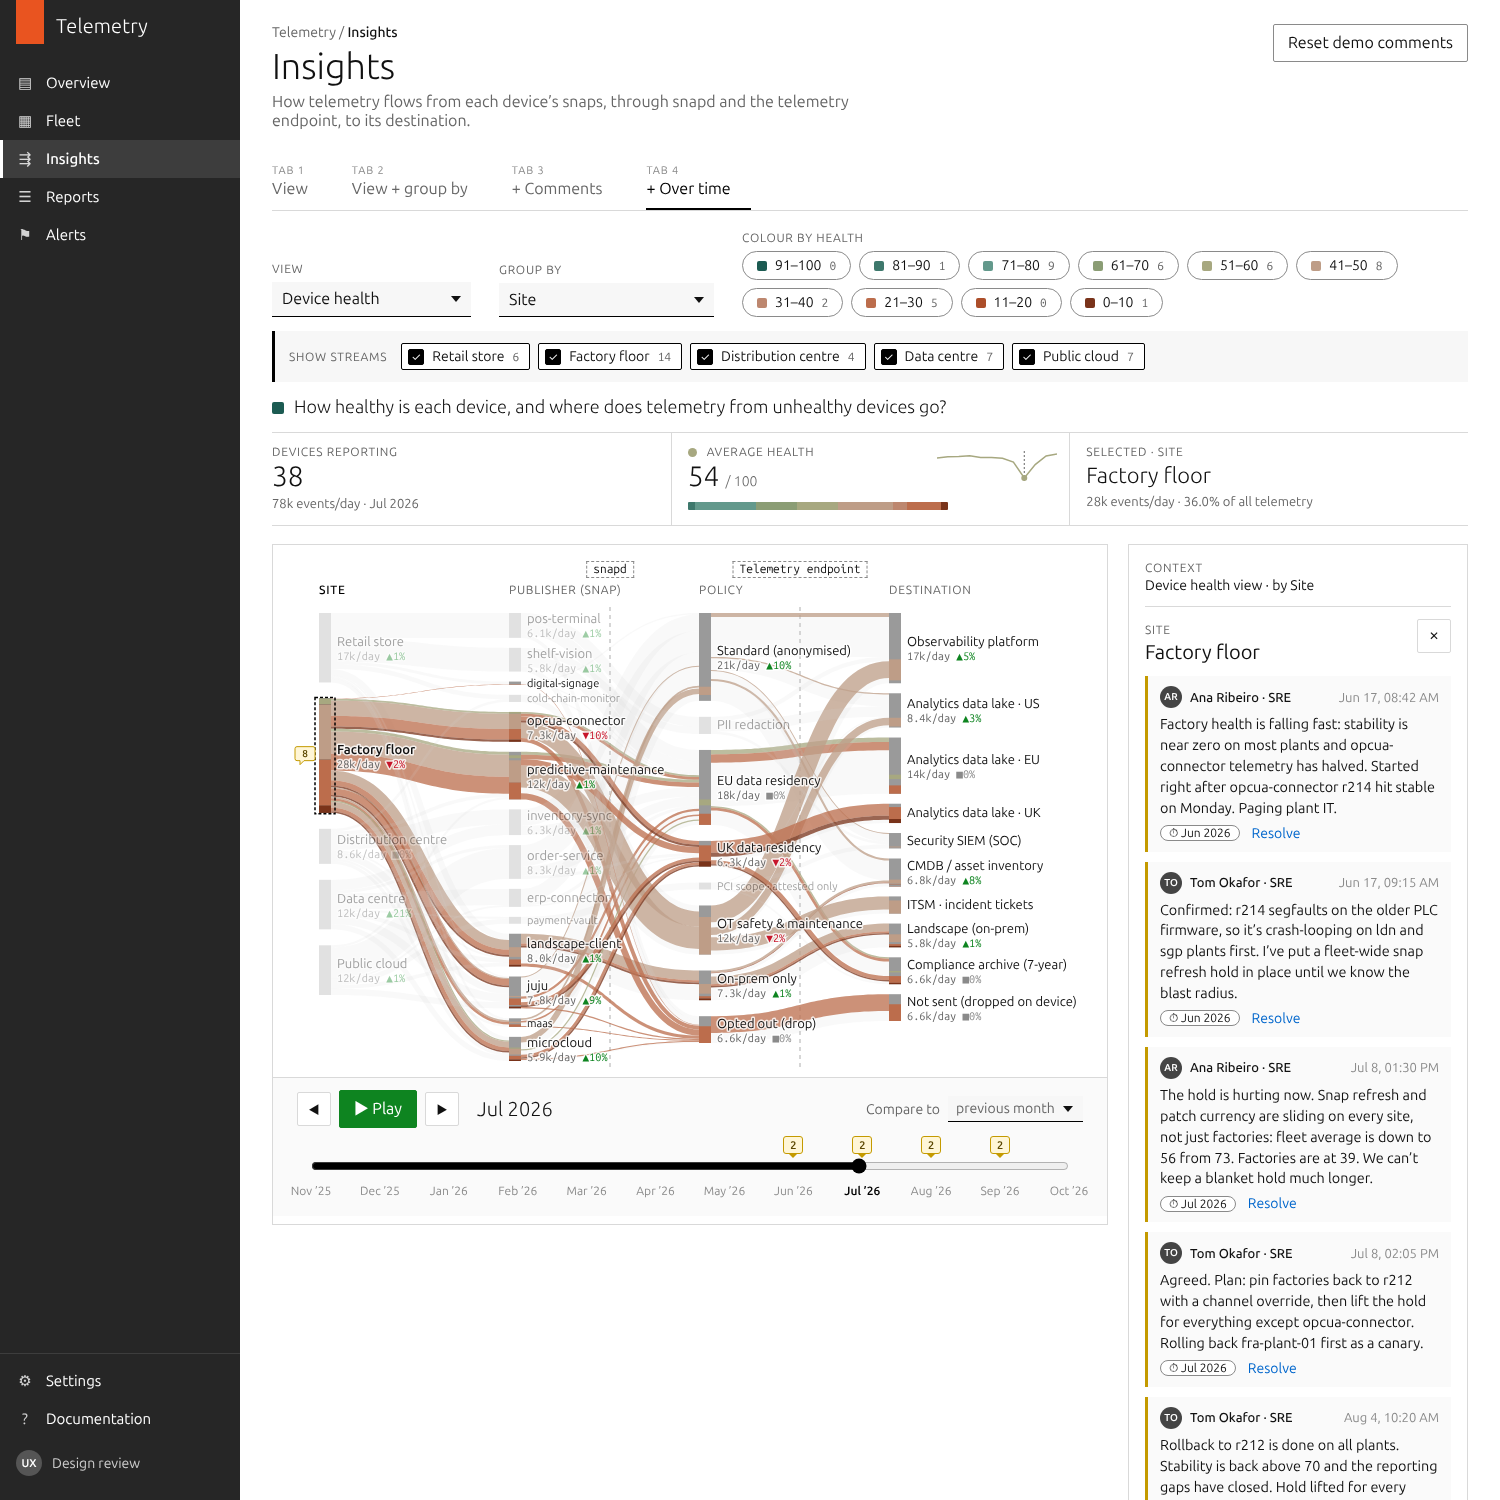
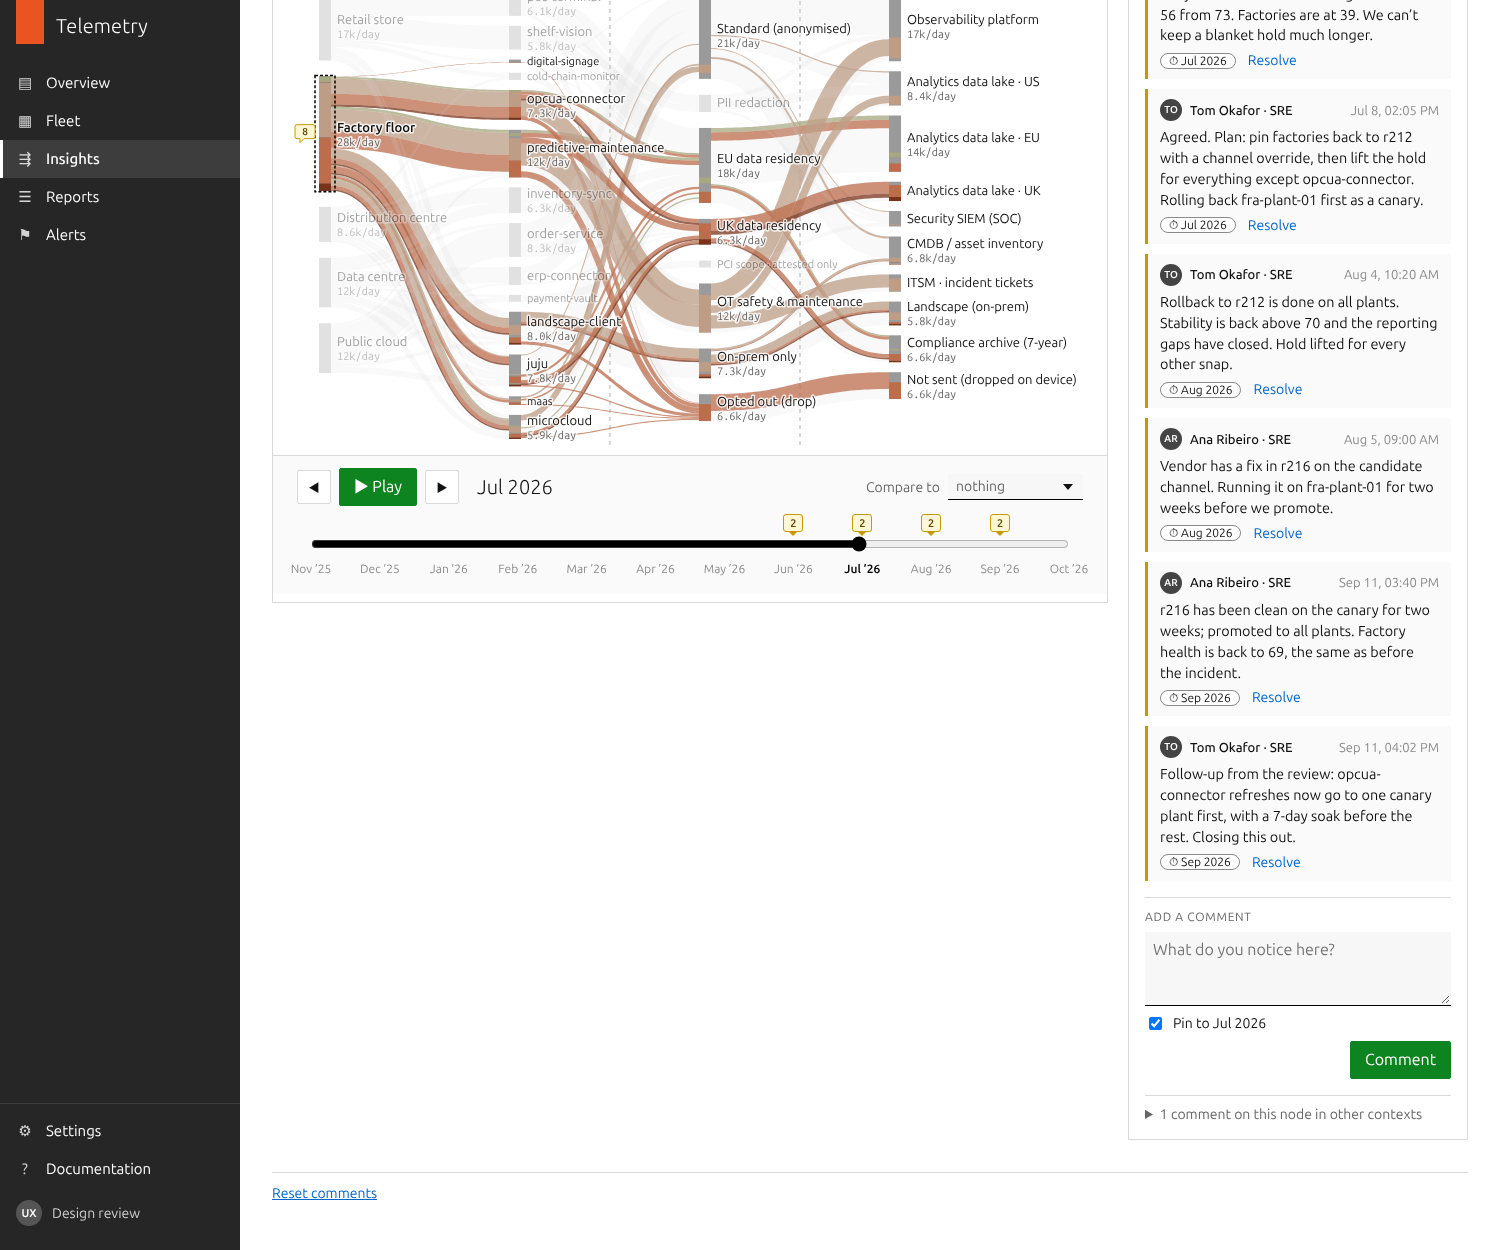
Simplify to a single page and move reset to a footer link
Removes the four demo tabs: the page now always offers view, group-by,
comments and the timeline, opening on the Neutral view with devices
ungrouped. 'Reset comments' becomes a link in a page footer. Month-on-
month deltas only show once a comparison is chosen, and neutral flows
are lighter. Docs and screenshots updated.

Claude-Session: https://claude.ai/code/session_0156BKrAD5wHGfcWHmuamSMf

diff --git a/js/app.js b/js/app.js
@@ -11,34 +11,29 @@
   const S = TL.sankey, esc = S.esc, fmt = S.fmt;
   const LAST = TL.MONTHS.length - 1;
 
-  const TABS = [
-    { id: 1, label: 'View', groupBy: false, comments: false, time: false },
-    { id: 2, label: 'View + group by', groupBy: true, comments: false, time: false },
-    { id: 3, label: '+ Comments', groupBy: true, comments: true, time: false },
-    { id: 4, label: '+ Over time', groupBy: true, comments: true, time: true }
-  ];
+  // Capabilities switched on for the page (all on; kept as flags so any can be turned off).
+  const FEATURES = { groupBy: true, comments: true, time: true };
 
   const state = {
-    tab: 1,
     view: 'neutral',
-    groupBy: 'site',         // used from tab 2; tab 1 always shows devices
+    groupBy: 'device',       // 'device' = one node per device in column 1
     isolate: {},             // { viewId: valueId } — colour only this value
     excluded: {},            // { dim: { valueId: true } }
     query: '',               // device name filter
     selected: null, hover: null,
-    month: LAST, baseline: 'prev', playing: false
+    month: LAST, baseline: 'none', playing: false
   };
 
   const $ = function (id) { return document.getElementById(id); };
   const el = {
-    tabs: $('tabs'), viewSelect: $('view-select'), hlField: $('hl-field'), groupby: $('groupby'),
+    viewSelect: $('view-select'), hlField: $('hl-field'), groupby: $('groupby'),
     groupbyField: $('groupby-field'), hl: $('hl-switch'), hlLabel: $('lbl-hl'), filter: $('group-filter'), question: $('view-question'),
     kpis: $('kpis'), legend: $('legend'), wrap: $('chart-wrap'), svg: $('sankey'), timeline: $('timeline'),
     comments: $('comments'), tooltip: $('tooltip')
   };
 
   // ---- derived state --------------------------------------------------
-  function tab() { return TABS[state.tab - 1]; }
+  function tab() { return FEATURES; }
   function view() { return TL.viewById(state.view); }
   function attr() { return TL.ATTRIBUTES[view().attr]; }
   function palette() { return attr().values.map(function (v) { return { id: v.id, color: v.color || null }; }); }
@@ -80,12 +75,6 @@
   }
 
   // ---- static UI builders --------------------------------------------
-  function buildTabs() {
-    el.tabs.innerHTML = TABS.map(function (t) {
-      return '<button class="p-tabs__item" role="tab" id="tab-' + t.id + '" data-tab="' + t.id + '" aria-selected="' + (state.tab === t.id) + '" tabindex="' + (state.tab === t.id ? 0 : -1) + '">' +
-        '<span class="p-tabs__num">Tab ' + t.id + '</span>' + esc(t.label) + '</button>';
-    }).join('');
-  }
   function buildViewSwitch() {
     // views without a group are top-level options; grouped views nest under an <optgroup>
     let html = '', open = null;
@@ -176,7 +165,7 @@
     lastLayout = L;
 
     let deltas = null;
-    if (t.time) {
+    if (t.time && state.baseline !== 'none') {
       const pi = periodIndex();
       const baseM = state.baseline === 'start' ? 0 : Math.max(0, pi - 1);
       if (baseM !== pi) {
@@ -189,6 +178,7 @@
       }
     }
 
+    el.svg.classList.toggle('is-neutral', isNeutral());
     S.render(el.svg, L, {
       waypoints: waypoints(stg, L),
       palette: palette(),
@@ -315,7 +305,7 @@
           '<button type="button" class="p-icon-button" id="tl-next" aria-label="Next month">▶</button>' +
           '<span class="p-timeline__period" id="tl-period"></span>' +
           '<label class="p-timeline__baseline">Compare to <select class="p-select p-select--small" id="tl-baseline">' +
-            '<option value="prev">previous month</option><option value="start">' + TL.monthLabel(TL.MONTHS[0]) + '</option></select></label>' +
+            '<option value="none">nothing</option><option value="prev">previous month</option><option value="start">' + TL.monthLabel(TL.MONTHS[0]) + '</option></select></label>' +
         '</div>' +
         '<div class="p-timeline__track">' +
           '<div class="p-timeline__markers" id="tl-markers"></div>' +
@@ -503,26 +493,10 @@
 
   // ---- events ---------------------------------------------------------
   function rebuildControls() { buildViewSwitch(); buildGroupBy(); buildHighlight(); buildGroupFilter(); }
-  function setTab(id) {
-    stopPlay();
-    state.tab = id; state.hover = null;
-    if (!tab().time) state.month = LAST;
-    if (state.selected && TL.parseNodeId(state.selected).dim !== groupBy() && TL.PIPELINE.indexOf(TL.parseNodeId(state.selected).dim) < 0) state.selected = null;
-    history.replaceState(null, '', '#tab' + id);
-    buildTabs(); buildHighlight(); buildGroupFilter();
-    document.body.dataset.tab = id;
-    render();
-  }
   function clearColumn1Selection() {
     if (state.selected && TL.PIPELINE.indexOf(TL.parseNodeId(state.selected).dim) < 0) state.selected = null;
   }
 
-  el.tabs.addEventListener('click', function (e) { const b = e.target.closest('[data-tab]'); if (b) setTab(+b.dataset.tab); });
-  el.tabs.addEventListener('keydown', function (e) {
-    if (e.key !== 'ArrowRight' && e.key !== 'ArrowLeft') return;
-    const n = (state.tab - 1 + (e.key === 'ArrowRight' ? 1 : TABS.length - 1)) % TABS.length + 1;
-    setTab(n); $('tab-' + n).focus();
-  });
   el.viewSelect.addEventListener('change', function (e) {
     const prevAttr = view().attr;
     state.view = e.target.value;
@@ -623,7 +597,7 @@
     if (e.target.id === 'cm-body' && e.key === 'Enter' && (e.metaKey || e.ctrlKey)) { e.preventDefault(); $('cm-form').requestSubmit(); }
   });
   TL.comments.onChange(render);
-  $('reset-demo').addEventListener('click', function () { TL.comments.reset(); });
+  $('reset-demo').addEventListener('click', function (e) { e.preventDefault(); TL.comments.reset(); });
 
   if (window.ResizeObserver) new ResizeObserver(function () { render(); }).observe(el.wrap);
   else window.addEventListener('resize', render);
@@ -657,7 +631,6 @@
   el.wrap.addEventListener('scroll', hideTip, { passive: true });
 
   // ---- boot -----------------------------------------------------------
-  const m = /#tab(\d)/.exec(location.hash);
   rebuildControls();
-  setTab(m ? Math.min(4, Math.max(1, +m[1])) : 1);
+  render();
 })(window.TL);

diff --git a/css/app.css b/css/app.css
@@ -67,15 +67,9 @@ button, input, select, textarea { font: inherit; color: inherit; }
 .p-check { display: flex; gap: 8px; align-items: center; font-size: .875rem; }
 
 /* Tabs */
-.p-tabs { display: flex; gap: 0; border-bottom: 1px solid var(--border); margin-top: 8px; overflow-x: auto; }
-.p-tabs__item { background: none; border: 0; padding: 10px 20px 12px 0; margin-right: 24px; cursor: pointer; text-align: left; position: relative; color: var(--muted); white-space: nowrap; }
-.p-tabs__item[aria-selected="true"] { color: var(--ink); }
-.p-tabs__item[aria-selected="true"]::after { content: ""; position: absolute; left: 0; right: 0; bottom: -1px; height: 3px; background: var(--ink); }
-.p-tabs__item:hover { color: var(--ink); }
-.p-tabs__num { display: block; font-size: .6875rem; text-transform: uppercase; letter-spacing: .08em; color: var(--faint); margin-bottom: 2px; }
 
 /* Toolbar */
-.p-toolbar { margin-top: 20px; display: flex; flex-wrap: wrap; gap: 20px 28px; align-items: flex-end; padding-bottom: 14px; }
+.p-toolbar { margin-top: 24px; display: flex; flex-wrap: wrap; gap: 20px 28px; align-items: flex-end; padding-bottom: 14px; }
 .p-field { display: flex; flex-direction: column; gap: 6px; }
 .p-field[hidden] { display: none; }
 .p-field--grow { flex: 1 1 320px; }
@@ -119,7 +113,7 @@ button, input, select, textarea { font: inherit; color: inherit; }
 
 /* Body: chart + comments */
 .insights__body { display: grid; grid-template-columns: minmax(0, 1fr); gap: 20px; align-items: start; }
-body[data-tab="3"] .insights__body, body[data-tab="4"] .insights__body { grid-template-columns: minmax(0, 1fr) 340px; }
+.insights__body { grid-template-columns: minmax(0, 1fr) 340px; }
 .p-card { border: 1px solid var(--border); background: #fff; }
 .insights__chart { padding: 16px 16px 8px; min-width: 0; }
 .chart-wrap { width: 100%; overflow-x: auto; }
@@ -212,7 +206,7 @@ body[data-tab="3"] .insights__body, body[data-tab="4"] .insights__body { grid-te
 .tooltip__hint { color: #bbb; margin-top: 4px; font-size: .75rem; }
 
 @media (max-width: 1100px) {
-  body[data-tab="3"] .insights__body, body[data-tab="4"] .insights__body { grid-template-columns: minmax(0, 1fr); }
+  .insights__body { grid-template-columns: minmax(0, 1fr); }
   .comment-panel { position: static; max-height: none; }
 }
 @media (max-width: 760px) {
@@ -224,12 +218,9 @@ body[data-tab="3"] .insights__body, body[data-tab="4"] .insights__body { grid-te
   body.nav-open { overflow: hidden; }
   .l-main { padding: 16px 16px 40px; }
   .p-page-header { flex-direction: column; gap: 8px; }
-  .p-page-header__actions { align-self: stretch; }
-  .p-page-header__actions .p-button { font-size: .875rem; padding: 4px 10px; }
   .p-heading { font-size: 1.75rem; }
   .p-subtitle { font-size: .9375rem; }
-  .p-tabs__item { margin-right: 16px; padding-right: 8px; }
-  /* controls */
+    /* controls */
   .p-toolbar { gap: 14px; }
   .p-toolbar > .p-field { width: 100%; }
   .p-segmented { display: flex; overflow-x: auto; max-width: 100%; scrollbar-width: none; }
@@ -308,3 +299,9 @@ body[data-tab="3"] .insights__body, body[data-tab="4"] .insights__body { grid-te
 .tooltip__parts dd { margin: 0; display: flex; align-items: center; gap: 6px; font-family: "Ubuntu Sans Mono", ui-monospace, monospace; }
 .tooltip__bar { display: inline-block; width: 60px; height: 6px; background: #333; }
 .tooltip__bar span { display: block; height: 100%; }
+
+/* Footer */
+.p-page-footer { margin-top: 32px; padding-top: 12px; border-top: 1px solid var(--border); font-size: .875rem; }
+.p-page-footer__link { color: var(--link); }
+.sankey.is-neutral .sk-link__seg { opacity: .38; }
+.sankey.is-neutral .sk-link:hover .sk-link__seg { opacity: .6; }

diff --git a/index.html b/index.html
@@ -49,12 +49,8 @@
         <h1 class="p-heading">Insights</h1>
         <p class="p-subtitle">How telemetry flows from each device’s snaps, through snapd and the telemetry endpoint, to its destination.</p>
       </div>
-      <div class="p-page-header__actions">
-        <button class="p-button" id="reset-demo" type="button">Reset demo comments</button>
-      </div>
     </header>
 
-    <div class="p-tabs" role="tablist" aria-label="Demo stages" id="tabs"></div>
 
     <section class="insights" id="insights" aria-live="polite">
       <!-- Controls -->
@@ -89,6 +85,9 @@
         <aside class="p-card comment-panel" id="comments" hidden aria-label="Comments"></aside>
       </div>
     </section>
+    <footer class="p-page-footer">
+      <a href="#" class="p-page-footer__link" id="reset-demo" role="button">Reset comments</a>
+    </footer>
   </main>
 </div>
 <div class="tooltip" id="tooltip" role="tooltip" hidden></div>

diff --git a/README.md b/README.md
@@ -22,12 +22,15 @@ A **view** colours every device by one attribute and carries that colour through
 
 Open `index.html` directly in a browser; there's no build step. All data is **synthetic** and seeded.
 
-| Tab | Capabilities |
-|---|---|
-| 1 · View | Devices coloured by the view attribute. Click a colour to isolate it. Hover or click a node to trace its full path |
-| 2 · View + group by | Column 1 collapses to group-by values. Chips filter streams; Alt-click shows only one. With devices, the chips filter by view value and a search box filters by name |
-| 3 · + Comments | Comments on any node, scoped to view and group-by. Comments on the same node in other contexts are linked |
-| 4 · + Over time | 12-month scrubber with play, deltas against a baseline, comments pinned to a month, and timeline markers |
+It's a single page with every capability switched on:
+
+- **View:** a dropdown that starts on Neutral. Other views colour devices and their flows by an attribute; click a colour to isolate it.
+- **Group by:** column 1 collapses to the group-by values. Chips filter the streams, and Alt-click shows only one. When showing devices, a search box filters them by name.
+- **Path tracing:** hover or click any node to trace its full path.
+- **Comments:** attach to any node, scoped to the current view and group-by. Comments on the same node in other contexts are linked.
+- **Timeline:** a 12-month scrubber with play. Comments can be pinned to a month and show as timeline markers. Change percentages appear only when "Compare to" is set.
+
+**Reset comments** at the bottom of the page restores the seeded comments.
 
 ## Devices
 
@@ -74,7 +77,7 @@ The score is shown in ten bands: 0–10, 11–20 … 91–100.
 The intermediate steps were interpolated in OKLCH. Lightness mirrors either side of the middle, and adjacent bands are roughly equal visual steps apart.
 
 **In the interface:**
-- The KPI shows the fleet's average score, with its monthly trend on the Over time tab.
+- The KPI shows the fleet's average score, with its monthly trend shown next to it.
 - In the Health view, each device's tooltip breaks the score down by component.
 
 Devices on **Juju 2.9** (out of support) score lower on patching, snap refreshes, stability and reporting. They average about 50, against the high 70s for Juju 4.1. Their scores recover once upgraded; for example, `nyc-cloud-01` goes from 68 to 93 when it moves to 3.6 in June.
@@ -92,7 +95,7 @@ The data includes a fleet incident to show change over time. All of it is define
 
 Before the incident, the fleet average was 73 and factories averaged 69.
 
-Two SREs discuss and resolve the incident in a comment thread. To find it, choose **Device health** and group by **Site**, then open **Factory floor**. On the Over time tab, the thread's comments show as markers from June to September.
+Two SREs discuss and resolve the incident in a comment thread. To find it, choose **Device health** and group by **Site**, then open **Factory floor**. The thread's comments show as timeline markers from June to September.
 
 ## Views
 
@@ -144,12 +147,12 @@ Comments are stored in `localStorage`. **Reset demo comments** restores the seed
 ## Files
 
 ```
-index.html        layout: left nav (Insights active), header, tabs
+index.html        layout: left nav (Insights active), header, controls, chart, footer
 css/app.css       Canonical/Vanilla-style app styling
 js/data.js        attributes, pipeline, routing rules, devices, views
 js/sankey.js      aggregate · interpolate · layout · SVG render
 js/comments.js    comment store
-js/app.js         page controller and tab capability flags
+js/app.js         page controller (capability flags in FEATURES)
 docs/             screenshots
 ```
 
@@ -157,5 +160,4 @@ docs/             screenshots
 
 | | |
 |---|---|
-| ![Tab 1](docs/tab1.png) | ![Tab 2](docs/tab2.png) |
-| ![Tab 3](docs/tab3.png) | ![Tab 4](docs/tab4.png) |
+| ![Neutral view, devices](docs/page.png) | ![Health incident, July 2026](docs/health-incident.png) |

diff --git a/CLAUDE.md b/CLAUDE.md
@@ -25,9 +25,9 @@ Prototype of the **Insights** page (Telemetry product): a Sankey shown as four d
 - Columns are fixed: **Device → Publisher → Policy → Destination**. Only column 1 changes.
 - A **view** colours devices (and their flows end to end) by one attribute, e.g. Juju version. Views never change columns.
 - View selector is a dropdown starting on **Neutral** (one flow colour): Neutral · Device health · Telemetry residency · Confidential compute · Canonical infrastructure ▸ (Full/partial stack, Juju, JAAS, MAAS, MicroCloud).
-- No tab descriptions and no "synthetic data" note under the page header.
+- No intro/description text and no "synthetic data" note under the page header.
 - **Group by** replaces the device column with that attribute's values (e.g. Juju 4.1 / 3.6 / none); publisher, policy and destination stay intact.
-- Tabs: 1 view · 2 + group by · 3 + comments · 4 + over time.
+- Single page, no tabs: view + group by + comments + timeline all available. Opens on Neutral view, devices ungrouped, "Compare to: nothing" (no deltas until chosen). "Reset comments" is a footer link.
 - Columns top-aligned (top stream horizontal, others rise into it); flows fairly transparent.
 
 ## Deployment
